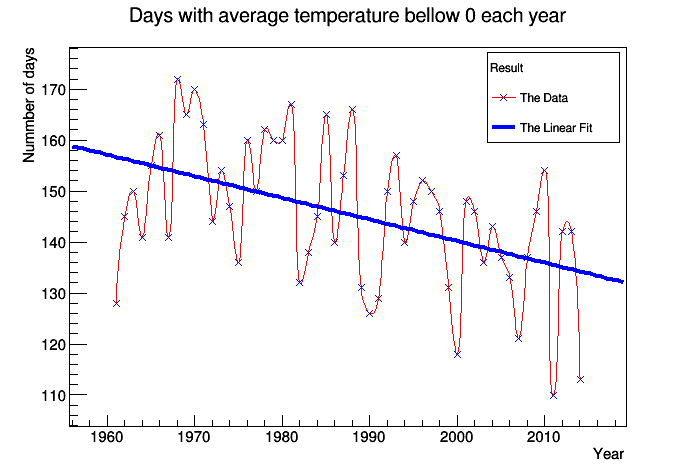
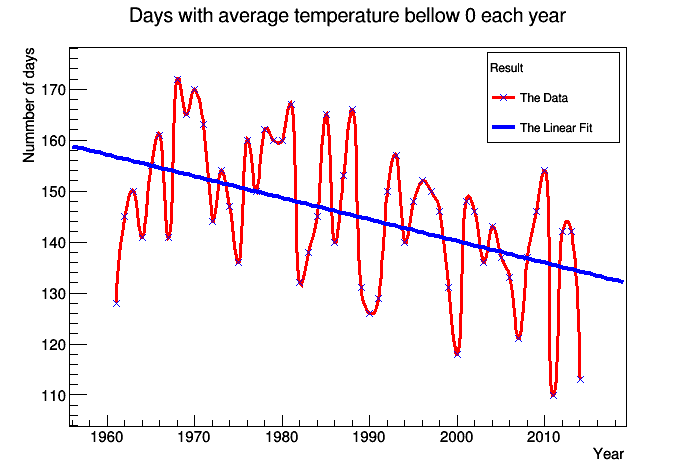
Fixed some grammar

diff --git a/code/graph.C b/code/graph.C
@@ -48,7 +48,6 @@ std::cout << Path << "\n";
    gr->SetTitle("Days with average temperature bellow 0 each year");
    gr->GetXaxis()->SetTitle("Year");
    gr->GetYaxis()->SetTitle("Nummber of days");
-   gr->SetNpx(10000);
    gr->Draw("ACP");
    gr->Fit("pol1");
    TF1 *f3 = gr->GetFunction("pol1");
